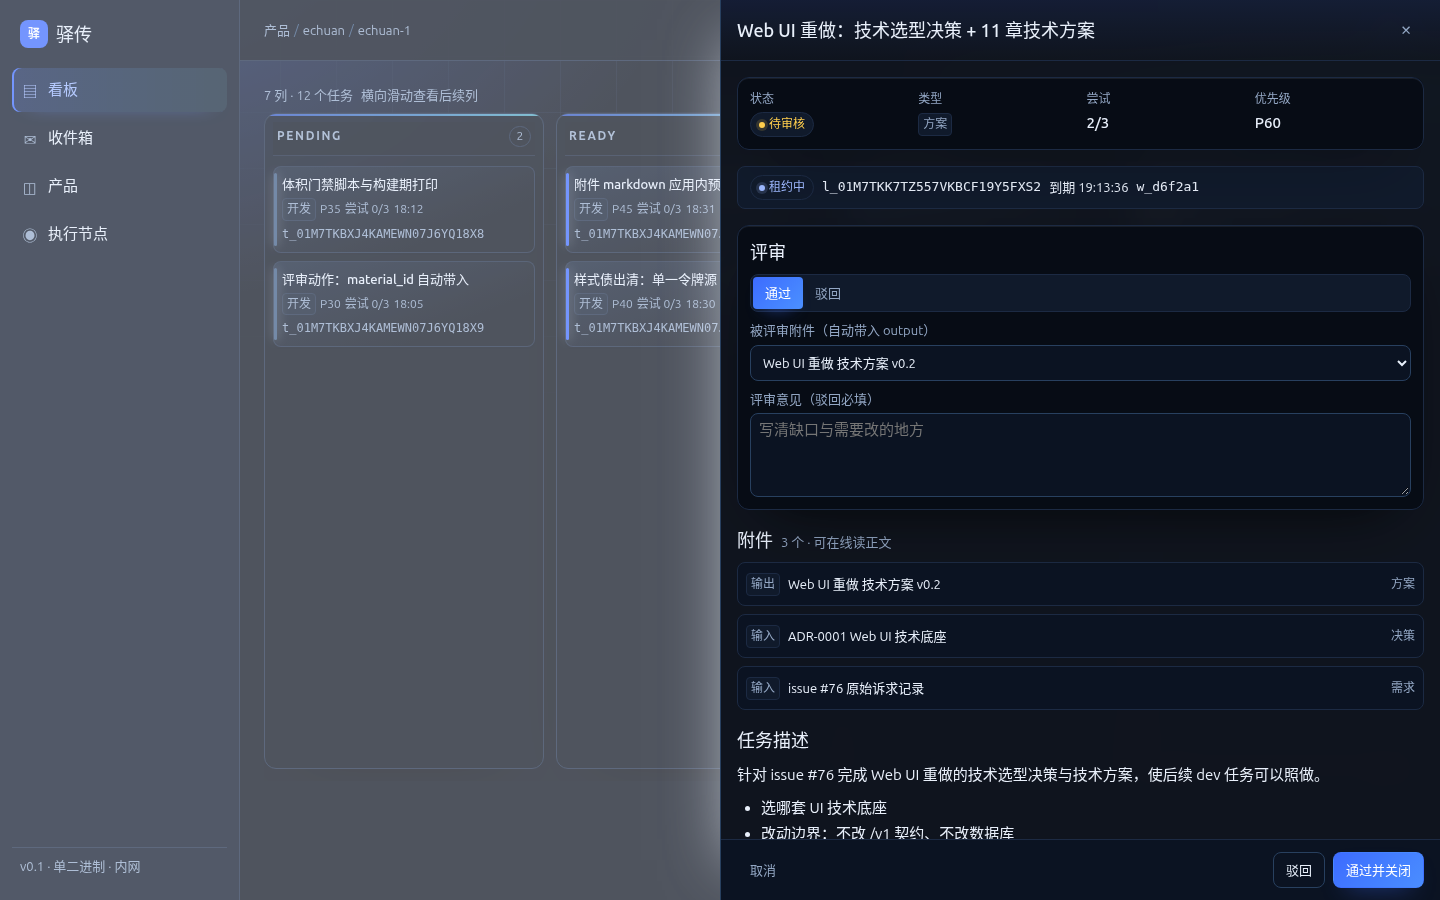
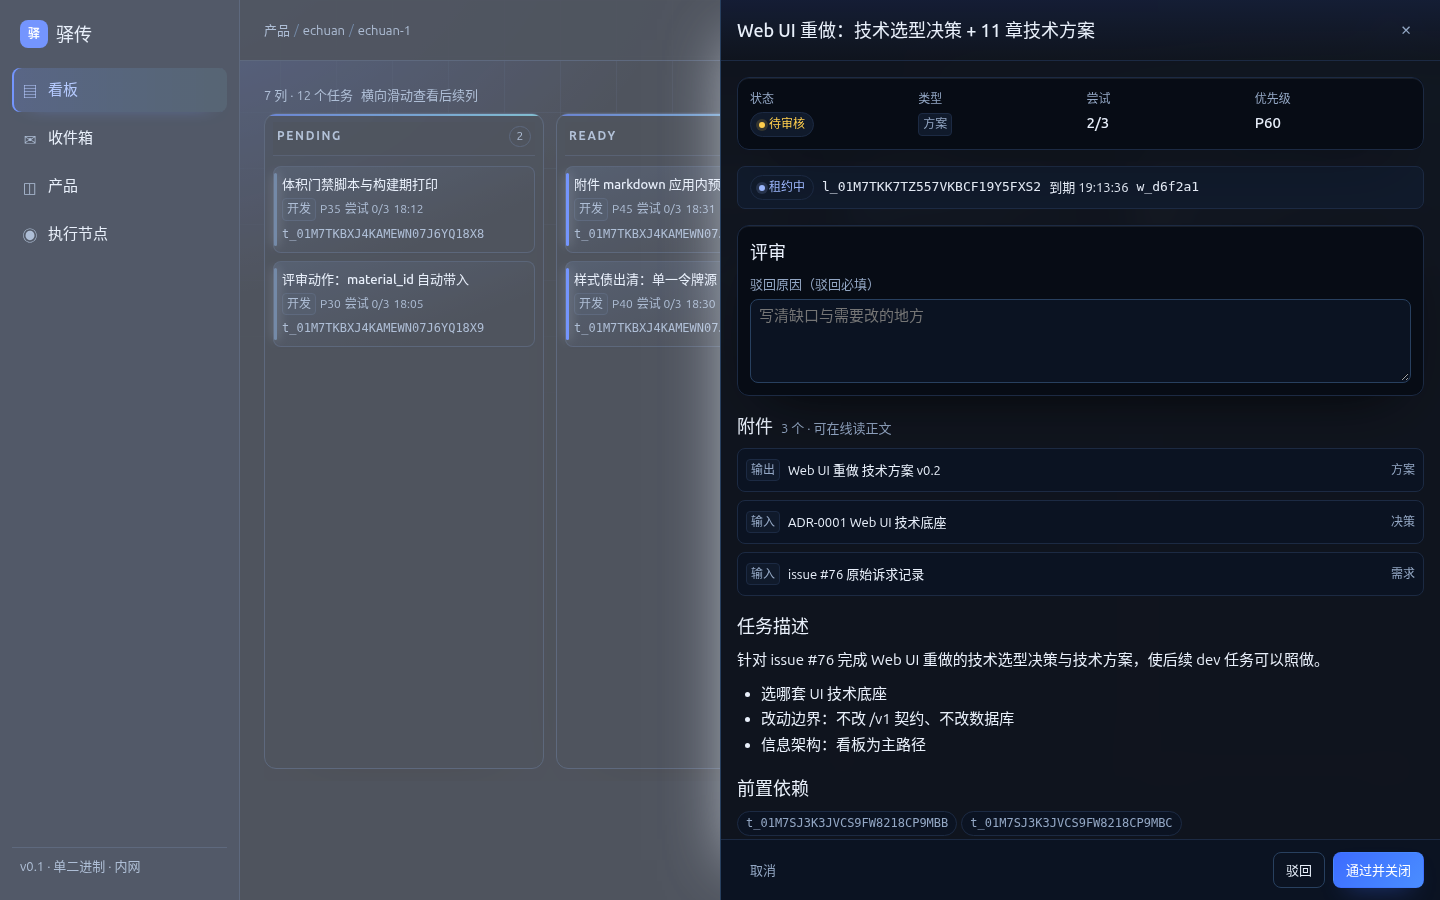
docs(design-148/design): 补重出 task-detail error/leased 12 张 refs，回填契约增量 sha
方案 v0.2 §4.2 D6 原定只重出 default/rejected 12 张，但 mock 里 `const review = !failed`
且 `loading` 提前 return，`error` 与 `leased` 两态同样渲染评审区，旧图上仍留着「通过 /
驳回」开关与「被评审附件」下拉——与现 mock 和新契约自相矛盾，会误导 dev 的视觉回归。
本次按同一条契约收口（CTO 已认定属 D6 范围定错，不是新契约）：

- D6：只补跑 `--states error,leased`，dark / light 各一遍各 6 张，两遍退出码 0 且各打印
  「完成：6 张截图」；task-detail 的 default/rejected 12 张未重出、与 9bdbcdb 逐字节一致。
  重出后 task-detail 共重出 24 张（default/rejected/error/leased × 3 视口 × 2 主题），
  refs 总量仍 240 张、task-detail 仍 36 张。
- D7 docs：`design/README.md` #148 条目三处收口——契约增量 commit 回填字面 sha
  `9bdbcdb4e21344dcd65a3f9da8ae1a1e40e043b3`（本条记录与 error/leased 12 张在紧随其后的
  本 commit 里，写法同 #128）；refs 口径由 12 张改 24 张并注明各 12 张落在哪个 commit；
  「已知状态与偏差」里 error/leased 过期图那条改为已关闭。

范围：只动 `design/refs/` 12 张 + `design/README.md`；mock、屏规格、tokens.json、
MANIFEST.sha256、其它屏 refs 一律未动。

diff --git a/design/README.md b/design/README.md
@@ -124,13 +124,13 @@ design_ref 指 `design/` 物料入库的仓库 commit：`design/screens/*.md`、
 
 ### issue #148 资料只留当前版本 + 评审区简化（2026-11-23）
 
-- 契约增量 commit：本卡 commit，subject `docs(design-148/design): 资料只留当前版本与评审区简化契约，重出 task-detail 12 张 refs`（分支 `design/echuan-14-current-version-148` 的 tip）。git 无法让 commit 内嵌自身 sha，故本条按「分支 tip + subject」定位；完整 sha 由设计卡报告给出，`git log -1 --format=%H origin/design/echuan-14-current-version-148` 可复核。上游方案 `docs/tech/current-version-only-148-v0.2.md`（v0.2，§4.2 D1–D6，由开发卡随 PR 入库），issue #148。
+- 契约增量 commit：`9bdbcdb4e21344dcd65a3f9da8ae1a1e40e043b3`（`docs(design-148/design): 资料只留当前版本与评审区简化契约，重出 task-detail 12 张 refs`）——D1–D6 的契约文本、mock 与 `task-detail` 的 `default`/`rejected` 12 张 refs 在该 commit 下可逐字节检出。**本条记录与 `error`/`leased` 的另 12 张 refs 在紧随其后的 commit 里**（`docs(design-148/design): 补重出 task-detail error/leased 12 张 refs，回填契约增量 sha`，写法同 issue #128 条目），不改变上面那条 sha 的判定：`error`/`leased` 两态也渲染评审区，方案 §4.2 D6 原定「只出 12 张」漏了这两态，补出属同一条契约的收口、不是新契约。上游方案 `docs/tech/current-version-only-148-v0.2.md`（v0.2，§4.2 D1–D6，由开发卡随 PR 入库），issue #148。
 - 范围：`screens/task-detail.md`（结构行、组件表删 `ui/Segmented` / `ui/SelectField`、default 态、评审区口径、附件段口径、交互行）、`screens/projects.md`（资料区补版本口径 / 简报跟随 / 计数口径三条，折叠阈值改「作用于可见行」）、`flows.md`（F3 第 2 步）、`components.md`（总览表 `ui/Segmented` 用途改「暂保留（当前无使用方）」、§ui/Segmented 用途句与反例句改写；**导出面仍 22 个组件**）、`mock/**`（评审区删「通过/驳回」开关与附件下拉，label 改「驳回原因（驳回必填）」）。`tokens.json` 零变动；`MANIFEST.sha256` **沿用「保留旧值，不重算」**。
 - mock 副本：`mock.js` 与 `styles.css` 各 8 份同源（根目录 + `shots/{board,inbox,products,projects,queue,task-detail,workers}`），改一份后复制，`md5sum` 全等（`mock.js` = `c24f65360a51168b8122af99027573cf`，`styles.css` = `b7fa6a721f8cb10fe42a9609db1c1551`）；`shots/attachment-preview/{mock.js,styles.css}` 是独立变体（整页居中浮层），同样删掉评审区两控件与 `.segmented` 样式，与其它副本保持「无 `class="segmented"`」一致。`.segmented` 的 6 条样式在改后已无任何 mock 段落引用，按「不留死代码」删除。
-- refs 口径：总量仍是 8 屏 × 状态 × 三视口 × 双主题 = **240 张**；本次**只重出 `task-detail` 的 12 张**（`{desktop,tablet,mobile}` × `{dark,light}` × `{default,rejected}`），其余 228 张未动。这 12 张里评审区只有「评审」标题 + 驳回原因框，**没有**结论开关、没有附件选择控件；底部仍是「取消 / 驳回 / 通过并关闭」；附件区行数 = 计数文案（3 个）。
-- 截图可复现：完整命令见上文「重出某屏 refs 的完整命令」，本次 `--states default,rejected`，dark / light 各一遍（每次 6 张、退出码 0）；同一命令重跑字节一致（md5 全等）。
-- `design_ref`：既有 `032c2ca…` 仍是**物料入库 commit**（未变形状态的对照基线）；issue #148 的 dev 卡**取图按本条 commit 的 `task-detail` 12 张、取口径按本条的契约文本**。
-- 随本次登记的已知状态与偏差：①`ui/Segmented` 从此没有使用方，登记为待决债务（导出面 22 个不变，删要同步 `ui/index.ts` / `ui-imports-check.mjs` / `components.md` / `web/README.md` 四处）；②`design/mock/` 根目录交互入口与 `mock/shots/*` 共用同一份 `mock.js`，本次已同步（8 份 md5 全等）；③按方案 §4.2 D6 只重出 `default`/`rejected`，其余四态 task-detail refs 未动——`loading`（骨架屏提前返回）与 `failed`（该态不渲染评审区）画面里没有评审区，与本次契约无冲突；**`error` 与 `leased` 的旧图（3 视口 × 2 主题 × 2 态 = 12 张）里仍画着「通过/驳回」开关与「被评审附件」下拉，与现 mock 及本条契约不一致**，属已知偏差，按方案 §11 R6 走变更（补出这 12 张，或随实现卡一起重出），本卡不擅自扩范围。
+- refs 口径：总量仍是 8 屏 × 状态 × 三视口 × 双主题 = **240 张**；本次重出 `task-detail` 的 **24 张**——`{desktop,tablet,mobile}` × `{dark,light}` × `{default,rejected,error,leased}`（其中 `default`/`rejected` 12 张在 `9bdbcdb…`，`error`/`leased` 12 张在紧随其后的 commit），`task-detail` 仍是 36 张，其余 216 张未动。这 24 张里评审区只有「评审」标题 + 驳回原因框，**没有**结论开关、没有附件选择控件；底部仍是「取消 / 驳回 / 通过并关闭」；附件区行数 = 计数文案（3 个）。`loading` 与 `failed` 两态不渲染评审区（前者骨架屏提前返回、后者 `review=false`），维持原图、与契约无冲突。
+- 截图可复现：完整命令见上文「重出某屏 refs 的完整命令」，本次 `--states default,rejected` 与 `--states error,leased` 各跑 dark / light 一遍（每遍 6 张、退出码 0）；同一命令重跑字节一致（md5 全等）。
+- `design_ref`：既有 `032c2ca…` 仍是**物料入库 commit**（未变形状态的对照基线）；issue #148 的 dev 卡**取图按本条 commit 的 `task-detail` 24 张、取口径按本条的契约文本**。
+- 随本次登记的已知状态：①`ui/Segmented` 从此没有使用方，登记为待决债务（导出面 22 个不变，删要同步 `ui/index.ts` / `ui-imports-check.mjs` / `components.md` / `web/README.md` 四处）；②`design/mock/` 根目录交互入口与 `mock/shots/*` 共用同一份 `mock.js`，本次已同步（8 份 md5 全等）；③**`error`/`leased` 两态的过期 refs 已关闭**——方案 §4.2 D6 原定只重出 `default`/`rejected`，但这两态同样渲染评审区，旧图里留着「通过/驳回」开关与「被评审附件」下拉；已在紧随其后的 commit 里连同这两态一并重出（12 张），与现 mock 和本条契约一致，不再挂待补。
 
 ## 视觉方向（已定：B 暗色仪表盘）
 
